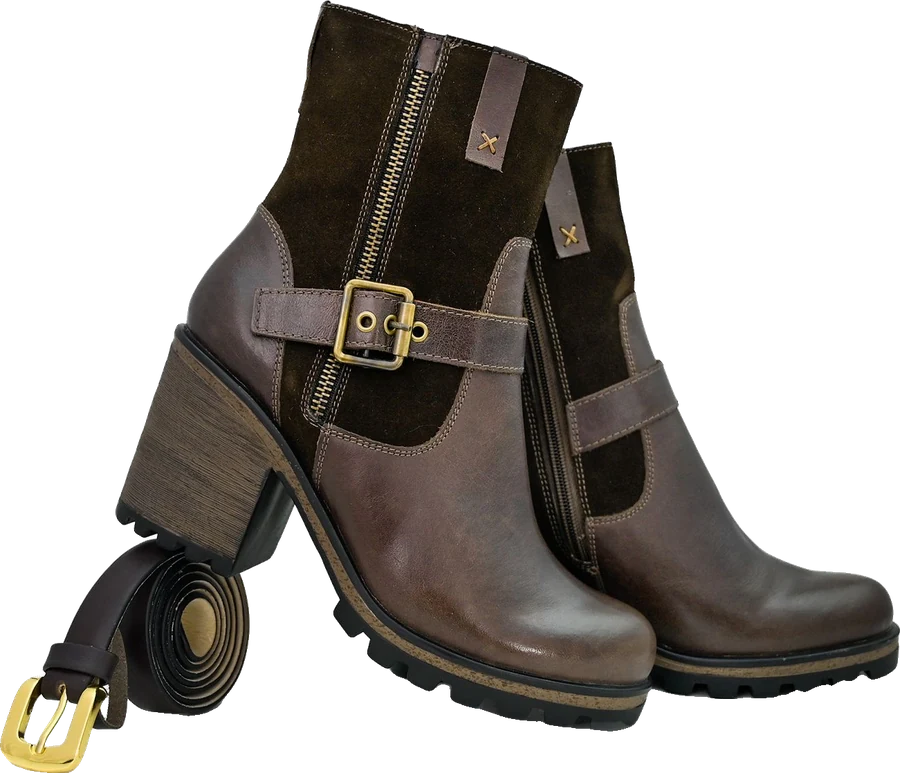
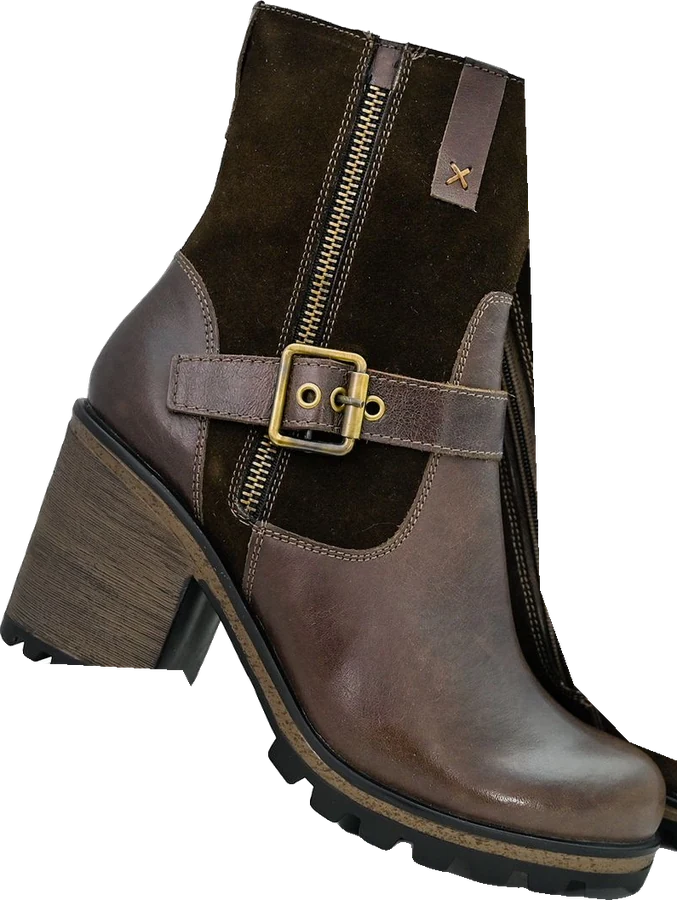
feat(camara): un zapato por pie, con la suela plana y en espejo
- Las fotos de calzado son de perfil: antes se dibujaba un zapato
  gigante entre los pies; ahora cada pie lleva el suyo, punta afuera
- Anclas heel/toe de la suela enderezan zapatos inclinados en la foto
- Un zapato bajo crece hasta el tobillo para tapar el calzado propio
- wear en sources.json: la cámara viste un solo botín del par y sin
  el cinturón de atrezo; la foto de tienda queda entera

diff --git a/apps/web/src/app/features/live-overlay/engine/rig.ts b/apps/web/src/app/features/live-overlay/engine/rig.ts
@@ -8,6 +8,7 @@ import {
   apply,
   clamp,
   dist,
+  dot,
   lerp,
   limitTurn,
   mid,
@@ -410,9 +411,48 @@ export function placementPose(anchors: GarmentAnchors, style: string | undefined
   return box([width / 2, 0], [1, 0], add(hip, [-shoulderW * 0.35, -shoulderW * 0.15]), [1, 0], k);
 }
 
-export function poseFor(anchors: GarmentAnchors, style: string | undefined, width: number, height: number, body: Body, fit: Fit = NEUTRAL_FIT): Pose | null {
+/** Largo visible de un zapato de frente (escorzado) respecto del ancho de hombros. */
+const SHOE_LENGTH = 0.46;
+
+/**
+ * Un zapato de perfil sobre un pie: la suela (talón→punta de la foto) queda plana en el suelo,
+ * el talón bajo el tobillo y la punta hacia fuera. El otro pie lleva el mismo zapato en espejo.
+ */
+export function footPose(anchors: GarmentAnchors, width: number, height: number, body: Body, side: 'left' | 'right'): Pose | null {
+  const ankle = body[`${side}Ankle`];
+  if (!seen(ankle)) return null;
+  const p = anchorPx(anchors, width, height);
+  const heel = p['heel'] ?? ([width, height] as Pt);
+  const toe = p['toe'] ?? ([0, height] as Pt);
+  const shoulders = seen(body.leftShoulder) && seen(body.rightShoulder) ? dist(body.leftShoulder.p, body.rightShoulder.p) : 0;
+  let len = Math.max(shoulders * SHOE_LENGTH, seen(body.leftAnkle) && seen(body.rightAnkle) ? dist(body.leftAnkle.p, body.rightAnkle.p) * 0.45 : 0);
+  if (len <= 0) return null;
+  const foot = body[`${side}Foot`];
+  const ground = Math.max(seen(foot) ? foot.p[1] + len * 0.06 : 0, ankle.p[1] + len * 0.3);
+  const sole = sub(toe, heel);
+  const soleLen = Math.hypot(sole[0], sole[1]) || 1;
+  // "Arriba" del zapato en la foto: perpendicular a la suela, hacia y negativa.
+  const up0: Pt = [sole[1], -sole[0]];
+  const up = up0[1] <= 0 ? up0 : scale(up0, -1);
+  // Un zapato bajo (zapatilla) debe llegar al menos hasta el tobillo: si no, se ve el calzado
+  // propio por encima. Se mide la altura de la foto sobre la suela y se agranda si hace falta.
+  const upUnit = scale(up, 1 / soleLen);
+  const tall = Math.max(...([[0, 0], [width, 0], [0, height], [width, height]] as Pt[]).map((c) => dot(sub(c, heel), upUnit)));
+  const needed = ((ground - ankle.p[1]) * 1.15 * soleLen) / (tall || 1);
+  len = Math.min(Math.max(len, needed), shoulders > 0 ? shoulders * 0.72 : Infinity);
+  const outward: Pt = side === 'right' ? [-1, 0] : [1, 0]; // derecha de la persona = izquierda de la imagen
+  // El zapato queda casi centrado bajo el tobillo, un poco hacia fuera (de frente el pie se ve escorzado).
+  const bHeel: Pt = [ankle.p[0] - outward[0] * len * 0.42, ground];
+  const bToe = add(bHeel, scale(outward, len));
+  const base = affineFrom3([heel, toe, add(heel, up)], [bHeel, bToe, add(bHeel, [0, -len])]);
+  if (!base) return null;
+  return { base, right: [base, base], left: [base, base], scale: len / (dist(heel, toe) || 1) };
+}
+
+export function poseFor(anchors: GarmentAnchors, style: string | undefined, width: number, height: number, body: Body, fit: Fit = NEUTRAL_FIT, side?: 'left' | 'right'): Pose | null {
   if (anchors.kind === 'upper') return upperPose(anchors, width, height, body, fit);
   if (anchors.kind === 'lower' || anchors.kind === 'skirt') return lowerPose(anchors, width, height, body, fit);
+  if (anchors.kind === 'footwear' && side) return footPose(anchors, width, height, body, side);
   return placementPose(anchors, style, width, height, body);
 }
 

diff --git a/apps/web/src/app/features/live-overlay/engine/tryon-scene.ts b/apps/web/src/app/features/live-overlay/engine/tryon-scene.ts
@@ -9,6 +9,8 @@ interface Prepared {
   image: HTMLImageElement;
   mesh: Mesh;
   out: Float32Array;
+  /** Calzado: cada zapato va en su pie (la misma foto, una vez por lado). */
+  side?: 'left' | 'right';
 }
 
 /** Ajuste fino de la persona: desplazamiento (px del lienzo) y escala alrededor de los hombros. */
@@ -88,15 +90,16 @@ export class TryOnScene {
   async setGarments(garments: GarmentItem[]): Promise<void> {
     const wearable = garments.filter(canWear).sort((a, b) => (LAYER_ORDER[a.category] ?? 9) - (LAYER_ORDER[b.category] ?? 9));
     const loaded = await Promise.all(wearable.map(async (garment) => ({ garment, image: await loadImage(garment.images.cutout!) })));
-    this.items = loaded.map(({ garment, image }) => {
+    this.items = loaded.flatMap(({ garment, image }) => {
       const mesh = buildMesh(garment.anchors!, image.naturalWidth, image.naturalHeight, alphaSampler(image), this.gl ? 24 : 12);
-      return { garment, image, mesh, out: new Float32Array(mesh.rest.length) };
+      const sides: (Prepared['side'])[] = garment.anchors!.kind === 'footwear' ? ['right', 'left'] : [undefined];
+      return sides.map((side) => ({ garment, image, mesh, out: new Float32Array(mesh.rest.length), side }));
     });
     this.gl?.setGarments(this.items.map(({ image, mesh }) => ({ image, mesh })));
   }
 
   get garmentCount(): number {
-    return this.items.length;
+    return new Set(this.items.map((it) => it.garment.id)).size;
   }
 
   setOcclusion(rg: Uint8Array | null, width: number, height: number): void {
@@ -116,9 +119,9 @@ export class TryOnScene {
     let shadow = 6;
     const positions = this.items.map((it) => {
       if (!body) return null;
-      const pose = poseFor(it.garment.anchors!, it.garment.style, it.mesh.width, it.mesh.height, body, fits[it.garment.id] ?? NEUTRAL_FIT);
+      const pose = poseFor(it.garment.anchors!, it.garment.style, it.mesh.width, it.mesh.height, body, fits[it.garment.id] ?? NEUTRAL_FIT, it.side);
       if (!pose) return null;
-      placed++;
+      if (it.side !== 'left') placed++; // un par cuenta como una prenda
       shadow = Math.max(3, Math.min(14, pose.scale * it.mesh.width * 0.012));
       return applyAdjust(skinMesh(it.mesh, pose, it.out), adjust, body);
     });

diff --git a/apps/web/src/app/features/live-overlay/engine/engine.spec.ts b/apps/web/src/app/features/live-overlay/engine/engine.spec.ts
@@ -247,6 +247,23 @@ describe('rig: pose', () => {
     const shoes = poseFor({ version: 1, kind: 'footwear', aspect: 2, points: {} }, 'sneakers', 200, 100, body)!;
     expect(apply(shoes.base, [100, 100])[1]).toBeGreaterThan(460);
   });
+
+  it('un zapato por pie: suela horizontal en el suelo, la punta hacia fuera y el otro en espejo', () => {
+    const body = standing();
+    // Zapatilla de perfil e inclinada en la foto: talón abajo a la derecha, punta abajo a la izquierda.
+    const shoe = { version: 1, kind: 'footwear', aspect: 2, points: { heel: [0.9, 0.8], toe: [0.1, 1] } } as GarmentAnchors;
+    const right = poseFor(shoe, 'sneakers', 200, 100, body, undefined, 'right')!;
+    const left = poseFor(shoe, 'sneakers', 200, 100, body, undefined, 'left')!;
+    const heelR = apply(right.base, [180, 80]);
+    const toeR = apply(right.base, [20, 100]);
+    const toeL = apply(left.base, [20, 100]);
+    expect(heelR[1]).toBeCloseTo(toeR[1], 3); // la suela queda plana
+    expect(heelR[1]).toBeGreaterThan(470); // bajo el tobillo
+    expect(toeR[0]).toBeLessThan(heelR[0]); // pie derecho (izquierda de la imagen): punta a la izquierda
+    expect(toeL[0]).toBeGreaterThan(apply(left.base, [180, 80])[0]); // el izquierdo, en espejo
+    // El talón cae bajo su tobillo.
+    expect(Math.abs(heelR[0] - 276)).toBeLessThan(40);
+  });
 });
 
 describe('oclusión', () => {

diff --git a/packages/shared-types/src/index.ts b/packages/shared-types/src/index.ts
@@ -176,7 +176,9 @@ export interface OverlayAnchors {
 export type GarmentAnchorName =
   | 'neck' | 'leftShoulder' | 'rightShoulder' | 'leftArmpit' | 'rightArmpit' | 'leftCuff' | 'rightCuff'
   | 'leftHem' | 'rightHem' | 'leftWaist' | 'rightWaist' | 'crotch' | 'leftKnee' | 'rightKnee'
-  | 'leftAnkle' | 'rightAnkle' | 'topLeft' | 'bottomRight' | 'base' | 'top';
+  | 'leftAnkle' | 'rightAnkle' | 'topLeft' | 'bottomRight' | 'base' | 'top'
+  // Calzado (un solo zapato de perfil): extremos de la suela.
+  | 'heel' | 'toe';
 
 /**
  * Anclas medidas en la foto de la prenda, normalizadas a [0, 1] del recorte. Con ellas la

diff --git a/services/ai-worker/scripts/prepare_catalog.py b/services/ai-worker/scripts/prepare_catalog.py
@@ -18,6 +18,9 @@ Campos de cada prenda en sources.json:
   anchors       correcciones a mano de puntos concretos, en fracciones del recorte
   kind          cómo se viste en la cámara si no es el de su categoría (p. ej. un short como "skirt")
   sleeve        "none" | "short" | "long" cuando la medida automática se equivoca
+  wear          {box, erase, trim}: box y erase en fracciones del recorte completo, trim en las de
+                la pieza ya recortada: lo que se viste si la foto muestra más
+                (un zapato de un par, sin el cinturón de atrezo); la foto de tienda queda entera
   erase         polígonos [[x, y], …] en fracciones (tras `crop`) que se borran: percha, interior del escote
 
 Uso (desde services/ai-worker, con el extra `tools` instalado):
@@ -125,6 +128,25 @@ def cutout_of(image: Image.Image, source: dict, session) -> Image.Image:
     return rgba.crop(box) if box else rgba
 
 
+def worn(cutout: Image.Image, wear: dict | None) -> Image.Image:
+    """La parte que se viste en la cámara cuando la foto de tienda muestra más (p. ej. un solo
+    zapato de un par). `box` y `erase` van en fracciones del recorte completo."""
+    if not wear:
+        return cutout
+    w, h = cutout.size
+    rgba = cutout.copy()
+    alpha = erased(rgba.getchannel("A"), wear.get("erase"))
+    rgba.putalpha(alpha)
+    x0, y0, x1, y1 = wear.get("box", [0, 0, 1, 1])
+    rgba = rgba.crop((int(x0 * w), int(y0 * h), int(x1 * w), int(y1 * h)))
+    rgba.putalpha(largest_component(rgba.getchannel("A")))
+    box = rgba.getchannel("A").point(lambda a: 255 if a > 24 else 0).getbbox()
+    rgba = rgba.crop(box) if box else rgba
+    if wear.get("trim"):  # retoque final, en fracciones de la pieza ya recortada
+        rgba.putalpha(largest_component(erased(rgba.getchannel("A"), wear["trim"])))
+    return rgba
+
+
 def write_anchors(path: Path, anchors: dict) -> None:
     # Siempre LF: en Windows write_text pondría CRLF y git avisaría en cada regeneración.
     path.write_text(json.dumps(anchors, indent=1) + "\n", encoding="utf-8", newline="\n")
@@ -192,6 +214,7 @@ def main() -> None:
                 cutout = cutout_of(image, source, session)
                 store = on_canvas(cutout)
                 if kind == "garments":
+                    cutout = worn(cutout, source.get("wear"))
                     cutout.thumbnail((CUTOUT_MAX, CUTOUT_MAX), Image.LANCZOS)
                     cutout.save(cut_path, "WEBP", quality=88, method=6)
                     anchors = anchors_for(cutout, source)
